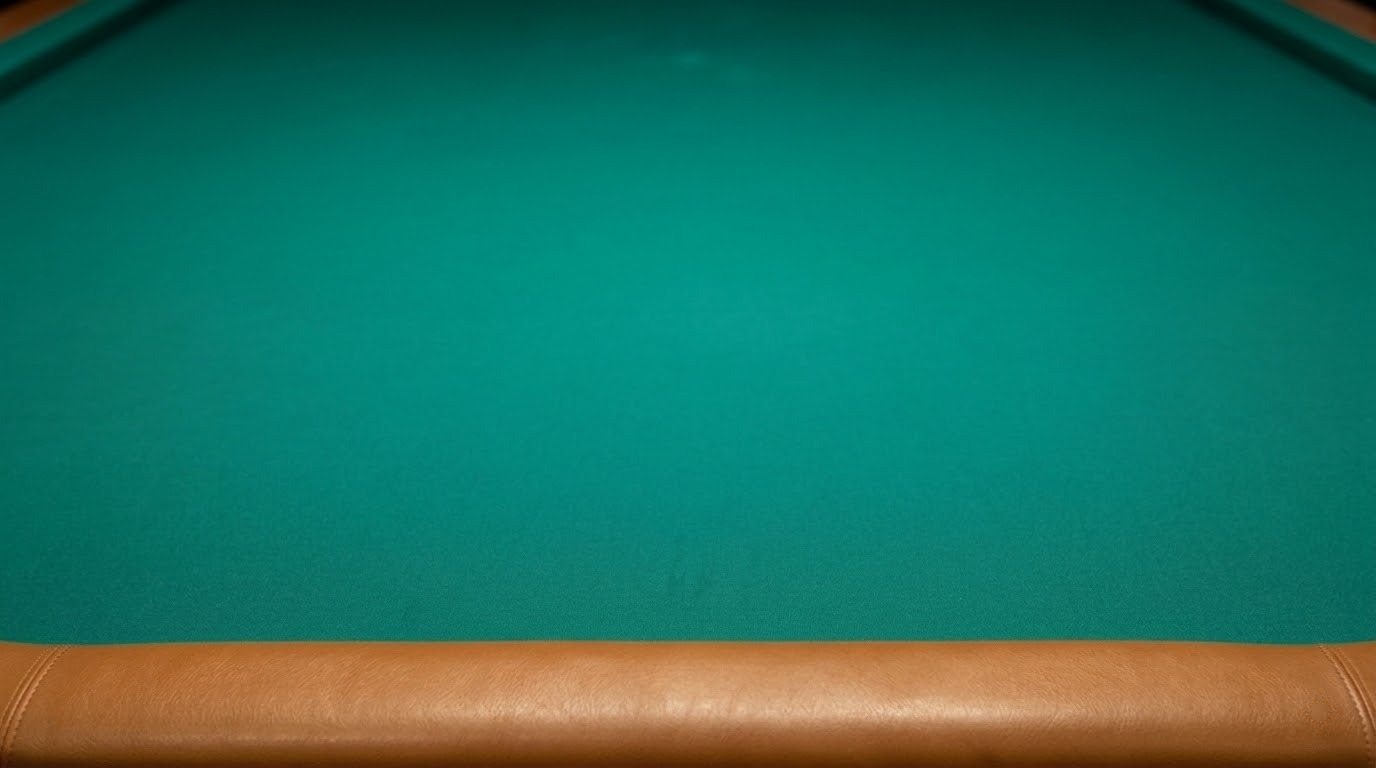
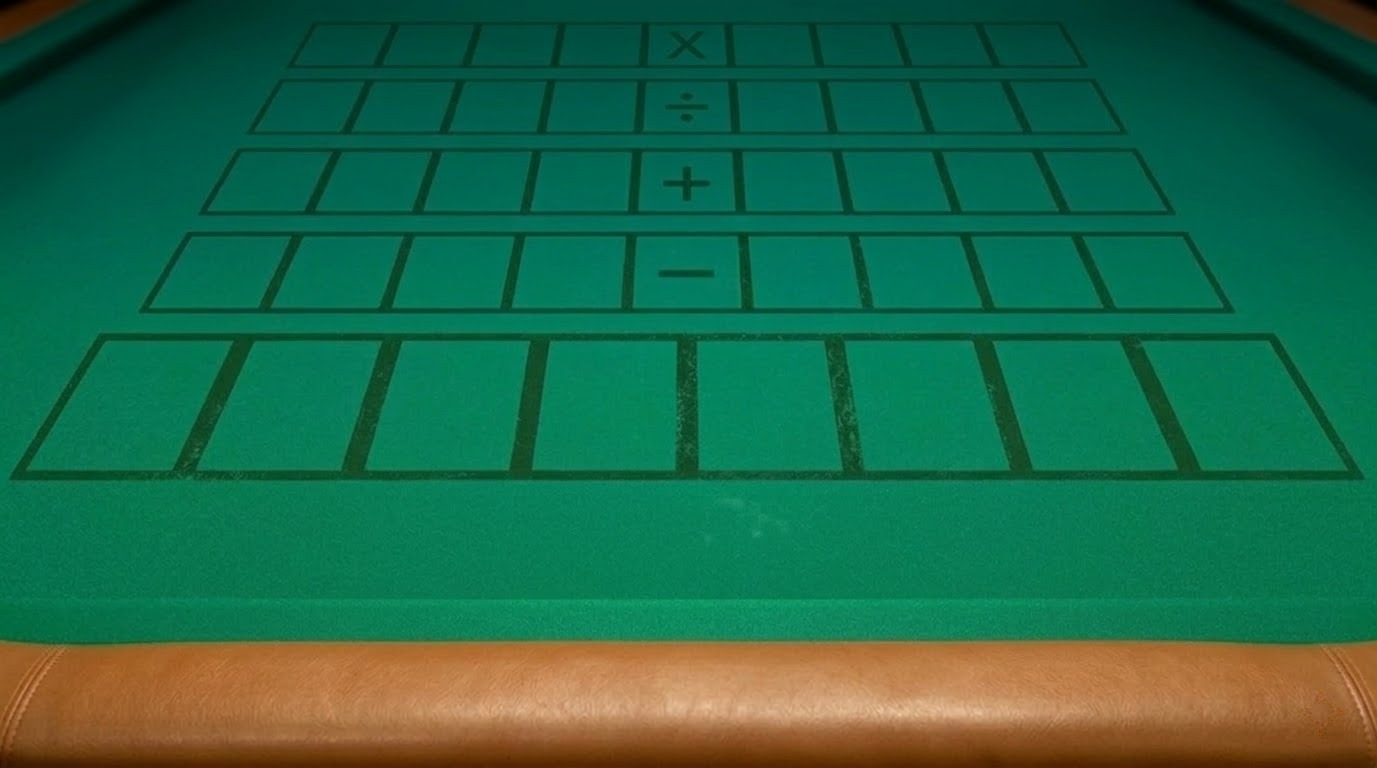
Base of card grids on table, and change tableImg.

diff --git a/index.html b/index.html
@@ -8,21 +8,42 @@
     <title>CalculatorTruco</title>
 </head>
 <body>
-    <img src="img/table.jpg" alt="" id="tableImg">
-    <div id="table">
+    <div id="container">
+        <img src="img/table.jpg" alt="" id="tableImg">
+        <div id="table">
+            <div class="gridTable" id="multiplication">
 
-    </div>
+            </div>
 
-    <div id="hand">
-        <button id="btn0" class="btnHand"><img src="img/clubs/clubs0.png" alt="" class="cardHand"></button>
-        <button id="btn1" class="btnHand"><img src="img/clubs/clubs1.png" alt="" class="cardHand"></button>
-        <button id="btn2" class="btnHand"><img src="img/clubs/clubs2.png" alt="" class="cardHand"></button>
-        <button id="btn3" class="btnHand"><img src="img/clubs/clubs3.png" alt="" class="cardHand"></button>
-        <button id="btn4" class="btnHand"><img src="img/clubs/clubs4.png" alt="" class="cardHand"></button>
-        <button id="btn5" class="btnHand"><img src="img/clubs/clubs5.png" alt="" class="cardHand"></button>
-        <button id="btn6" class="btnHand"><img src="img/clubs/clubs6.png" alt="" class="cardHand"></button>
-        <button id="btn7" class="btnHand"><img src="img/clubs/clubs7.png" alt="" class="cardHand"></button>
-        <button id="btn8" class="btnHand"><img src="img/clubs/clubs8.png" alt="" class="cardHand"></button>
-        <button id="btn9" class="btnHand"><img src="img/clubs/clubs9.png" alt="" class="cardHand"></button>
+            <div class="gridTable" id="division">
+                
+            </div>
+
+            <div class="gridTable" id="summation">
+                
+            </div>
+
+            <div class="gridTable" id="subtraction">
+                
+            </div>
+
+            <div class="gridTable" id="result">
+                
+            </div>
+            
+        </div>
+
+        <div id="hand">
+            <button id="btn0" class="btnHand"><img src="img/clubs/clubs0.png" alt="" class="cardHand"></button>
+            <button id="btn1" class="btnHand"><img src="img/clubs/clubs1.png" alt="" class="cardHand"></button>
+            <button id="btn2" class="btnHand"><img src="img/clubs/clubs2.png" alt="" class="cardHand"></button>
+            <button id="btn3" class="btnHand"><img src="img/clubs/clubs3.png" alt="" class="cardHand"></button>
+            <button id="btn4" class="btnHand"><img src="img/clubs/clubs4.png" alt="" class="cardHand"></button>
+            <button id="btn5" class="btnHand"><img src="img/clubs/clubs5.png" alt="" class="cardHand"></button>
+            <button id="btn6" class="btnHand"><img src="img/clubs/clubs6.png" alt="" class="cardHand"></button>
+            <button id="btn7" class="btnHand"><img src="img/clubs/clubs7.png" alt="" class="cardHand"></button>
+            <button id="btn8" class="btnHand"><img src="img/clubs/clubs8.png" alt="" class="cardHand"></button>
+            <button id="btn9" class="btnHand"><img src="img/clubs/clubs9.png" alt="" class="cardHand"></button>
+        </div>
     </div>
 </body>

diff --git a/css/style.css b/css/style.css
@@ -11,6 +11,13 @@ button {
     cursor: pointer;
 }
 
+#container {
+    display: flex;
+    flex-direction: column;
+    align-items: center;
+}
+
+/* Table styles */
 #tableImg {
     position: fixed;
     width: 100%;
@@ -18,13 +25,52 @@ button {
     z-index: -1;
 }
 
+#table {
+    justify-items: center;
+}
+
+.gridTable {
+    background-color: aliceblue;
+    border: 3px solid black;
+    opacity: 0.6;
+}
+
+#multiplication {
+    width: 1625px;
+    height: 80px;
+    margin-top: 40px;
+}
+
+#division {
+    width: 1800px;
+    height: 100px;
+    margin-top: 20px;
+}
+
+#summation {
+    width: 2000px;
+    height: 120px;
+    margin-top: 25px;
+}
+
+#subtraction {
+    width: 2250px;
+    height: 150px;
+    margin-top: 30px;
+}
+
+#result {
+    width: 2750px;
+    height: 260px;
+    margin-top: 40px;
+}
 
 /* Hand styles */
 #hand {
+    position: fixed;
     display: inline-flex;
     gap: 10px;
     margin-top: 35vw;
-    margin-left: 13vw;
 }
 
 .btnHand {
